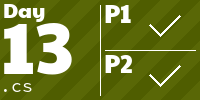
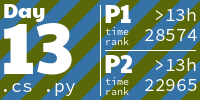
2024 Add day 13

diff --git a/Solutions/2024/Day13/Day13 - part2.py b/Solutions/2024/Day13/Day13 - part2.py
@@ -1,0 +1,45 @@
+from Helper import *
+import re
+
+def is_integer(value):
+    return isinstance(value, int) or (isinstance(value, float) and value.is_integer())
+
+#based on Cramer's rule
+def get_costs(x1, x2, y1, y2, p1, p2):
+    b = (p1*y1 - x1*p2)/(y1*x2-x1*y2)
+    a = (p2 - y2*b)/y1
+
+    if(is_integer(a) and is_integer(b)):
+        print(f'a: {a} - b: {b}')
+        return int(3*a + b) 
+
+    return 0
+
+start_time = initialize()
+
+# Open and read the file
+with open("/workspaces/AdventOfCode/Solutions/2024/Day13/input.txt", "r") as file:
+    data = file.read()
+
+# Find all matches for Button A, Button B, and Prize using regex
+button_a_matches = re.findall(r"Button A: X\+(\d+), Y\+(\d+)", data)
+button_b_matches = re.findall(r"Button B: X\+(\d+), Y\+(\d+)", data)
+prize_matches = re.findall(r"Prize: X=(\d+), Y=(\d+)", data)
+
+result = 0
+
+for i in range(0, len(button_a_matches)):
+    button_a = button_a_matches[i]
+    button_b = button_b_matches[i]
+    prize_match = prize_matches[i]
+    result += get_costs(
+        int(button_a[0]), 
+        int(button_b[0]), 
+        int(button_a[1]), 
+        int(button_b[1]), 
+        10000000000000 + int(prize_match[0]), 
+        10000000000000+ int(prize_match[1]))
+
+print(f'Result: {result}')
+
+print_runtime(start_time)

diff --git a/Solutions/2024/Day13/Day13 - part1.py b/Solutions/2024/Day13/Day13 - part1.py
@@ -1,0 +1,45 @@
+from Helper import *
+import re
+
+def is_integer(value):
+    return isinstance(value, int) or (isinstance(value, float) and value.is_integer())
+
+#based on Cramer's rule
+def get_costs(x1, x2, y1, y2, p1, p2):
+    b = (p1*y1 - x1*p2)/(y1*x2-x1*y2)
+    a = (p2 - y2*b)/y1
+
+    if(is_integer(a) and is_integer(b) and a <= 100 and b <= 100):
+        print(f'a: {a} - b: {b}')
+        return int(3*a + b) 
+
+    return 0
+
+start_time = initialize()
+
+# Open and read the file
+with open("/workspaces/AdventOfCode/Solutions/2024/Day13/input.txt", "r") as file:
+    data = file.read()
+
+# Find all matches for Button A, Button B, and Prize using regex
+button_a_matches = re.findall(r"Button A: X\+(\d+), Y\+(\d+)", data)
+button_b_matches = re.findall(r"Button B: X\+(\d+), Y\+(\d+)", data)
+prize_matches = re.findall(r"Prize: X=(\d+), Y=(\d+)", data)
+
+result = 0
+
+for i in range(0, len(button_a_matches)):
+    button_a = button_a_matches[i]
+    button_b = button_b_matches[i]
+    prize_match = prize_matches[i]
+    result += get_costs(
+        int(button_a[0]), 
+        int(button_b[0]), 
+        int(button_a[1]), 
+        int(button_b[1]), 
+        int(prize_match[0]), 
+        int(prize_match[1]))
+
+print(f'Result: {result}')
+
+print_runtime(start_time)

diff --git a/Solutions/2024/Day13/Helper.py b/Solutions/2024/Day13/Helper.py
@@ -1,0 +1,14 @@
+import time
+import os
+
+def print_runtime(start_time):
+    end_time = time.time()
+    runtime = end_time - start_time
+    print(f"Runtime: {runtime} seconds")
+
+def initialize():
+    start_time = time.time()
+    year = 2024
+    file_name = os.path.basename(__file__)
+    print(f'{year} - {file_name}')
+    return start_time

diff --git a/README.md b/README.md
@@ -9,7 +9,7 @@ Data is stored in a private repository and can be loaded via
 
 <!-- AOC TILES BEGIN -->
 <h1 align="center">
-  2024 - 22 ⭐ - Smalltalk
+  2024 - 24 ⭐ - Smalltalk
 </h1>
 <a href="ProjectTemplate/SolverPart1.cs">
   <img src=".aoc_tiles/tiles/2024/01.png" width="161px">
@@ -43,6 +43,12 @@ Data is stored in a private repository and can be loaded via
 </a>
 <a href="Solutions/2023/Day11/Coordinate.cs">
   <img src=".aoc_tiles/tiles/2024/11.png" width="161px">
+</a>
+<a href="Solutions/2023/Day12/Program.cs">
+  <img src=".aoc_tiles/tiles/2024/12.png" width="161px">
+</a>
+<a href="Solutions/2023/Day13/Pattern.cs">
+  <img src=".aoc_tiles/tiles/2024/13.png" width="161px">
 </a>
 <!-- AOC TILES END --> 
 <h1 align="center">
